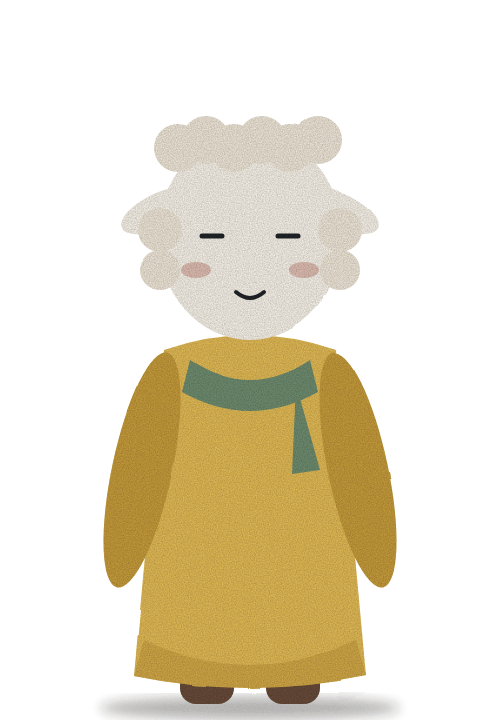
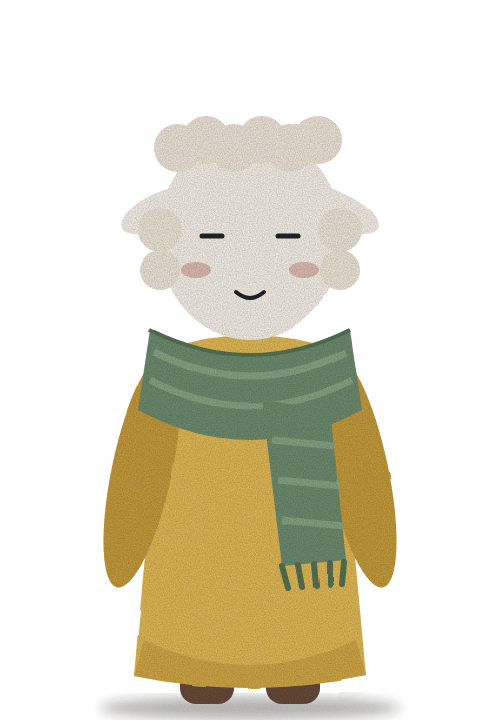
Give grown-up Nini a big knitted scarf
Claude-Session: https://claude.ai/code/session_01VPL1CzxsZ6j7ZHNesMRMMp

Changed region(s): [[0.27, 0.4583, 0.72, 0.825]]

diff --git a/big-green-bear-unity/tools/art2.js b/big-green-bear-unity/tools/art2.js
@@ -166,8 +166,13 @@ function moss(expr) {
 function niniAdult(expr) {
   return svg(500, 720, 137, `${shadow}
     ${body(P.yellow, P.yellowShade, { w: 116, top: 350, shoes: "#6B4E3B", armLen: 120 })}
-    <path d="M190 360 Q250 400 310 360 L318 392 Q250 430 182 392Z" fill="${P.green}"/>
-    <path d="M296 384 L320 470 L292 474Z" fill="${P.green}"/>
+    <!-- a big, chunky knitted scarf -->
+    <path d="M150 330 Q250 380 350 330 L362 410 Q250 470 138 410Z" fill="${P.green}"/>
+    <path d="M154 352 Q250 400 346 352 M150 380 Q250 432 352 380" stroke="#8FB08C" stroke-width="7" fill="none" opacity="0.8"/>
+    <path d="M262 400 L330 410 L346 560 L282 566Z" fill="${P.green}"/>
+    <path d="M272 440 L336 446 M278 480 L340 486 M282 520 L344 526" stroke="#8FB08C" stroke-width="7" opacity="0.8"/>
+    <path d="M282 566 l6 22 M298 565 l4 22 M314 564 l2 22 M330 563 l0 22 M344 562 l-2 22" stroke="${P.greenShade}" stroke-width="6" stroke-linecap="round"/>
+    <path d="M150 330 Q250 380 350 330" stroke="${P.greenShade}" stroke-width="4" fill="none"/>
     <ellipse cx="162" cy="210" rx="44" ry="18" transform="rotate(-24 162 210)" fill="#FBF7EE"/>
     <ellipse cx="338" cy="210" rx="44" ry="18" transform="rotate(24 338 210)" fill="#FBF7EE"/>
     <ellipse cx="250" cy="236" rx="92" ry="104" fill="#FBF7EE"/>
